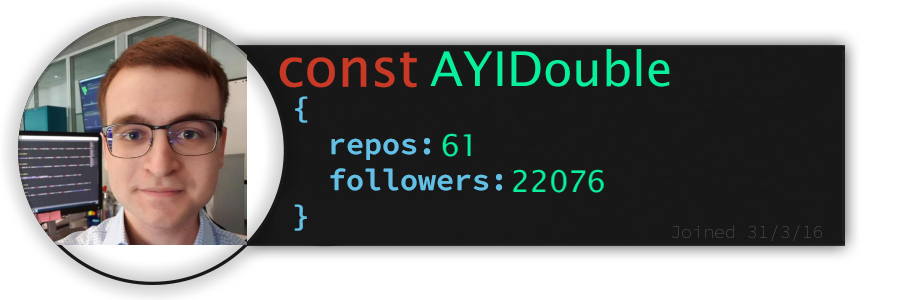
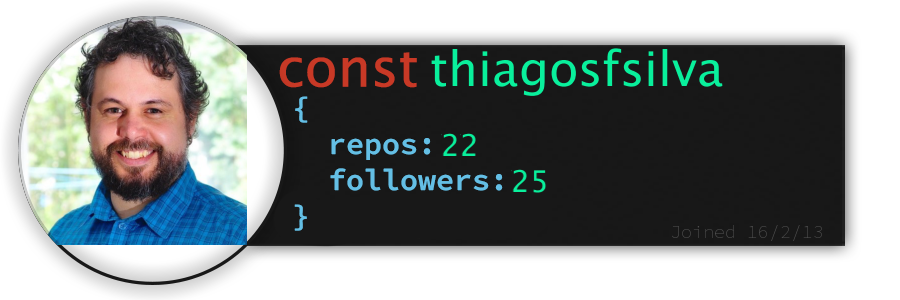
silly fixes

diff --git a/src/replacers/recentworks.js b/src/replacers/recentworks.js
@@ -7,7 +7,7 @@ module.exports = async function (data) {
   const formatJson = (elem) =>
     `<a href="${
       elem.html_url
-    }"><img height=250 width=350 src="https://github-readme-stats.vercel.app/api/pin/?username=${
+    }"><img height=250 width=350 src="https://github-readme-stats-server.vercel.app/api/pin/?username=${
       data.user
     }&repo=${encodeURIComponent(
       elem.name,

diff --git a/README.md b/README.md
@@ -38,62 +38,62 @@ I am Thomas Leon Highbaugh and this is my self-updating GitHub Profile ReadMe
 
 <h3>Skill Wall</h3>
 
-<p align="left"><img src="https://img.shields.io/badge/less-3c3c3c?logo=less&style=plastic&logoColor=F4F4F7"/>
-<img src="https://img.shields.io/badge/node.js-3c3c3c?logo=node.js&style=plastic&logoColor=F4F4F7"/>
-<img src="https://img.shields.io/badge/xhtml-69676c?logo=xhtml&style=plastic&logoColor=F4F4F7"/>
-<img src="https://img.shields.io/badge/vercel-69676c?logo=vercel&style=plastic&logoColor=F4F4F7"/>
-<img src="https://img.shields.io/badge/css-69676c?logo=css&style=plastic&logoColor=F4F4F7"/>
+<p align="left"><img src="https://img.shields.io/badge/vercel-69676c?logo=vercel&style=plastic&logoColor=F4F4F7"/>
+<img src="https://img.shields.io/badge/react-3c3c3c?logo=react&style=plastic&logoColor=F4F4F7"/>
+<img src="https://img.shields.io/badge/npm-3c3c3c?logo=npm&style=plastic&logoColor=F4F4F7"/>
+<img src="https://img.shields.io/badge/javascript-69676c?logo=javascript&style=plastic&logoColor=F4F4F7"/>
+<img src="https://img.shields.io/badge/less-3c3c3c?logo=less&style=plastic&logoColor=F4F4F7"/>
+<img src="https://img.shields.io/badge/lua-3c3c3c?logo=lua&style=plastic&logoColor=F4F4F7"/>
+<img src="https://img.shields.io/badge/gitlab-3c3c3c?logo=gitlab&style=plastic&logoColor=F4F4F7"/>
+<img src="https://img.shields.io/badge/firebase-69676c?logo=firebase&style=plastic&logoColor=F4F4F7"/>
+<img src="https://img.shields.io/badge/github%20actions-3c3c3c?logo=github%20actions&style=plastic&logoColor=F4F4F7"/>
 <img src="https://img.shields.io/badge/flask-3c3c3c?logo=flask&style=plastic&logoColor=F4F4F7"/>
 <img src="https://img.shields.io/badge/css3-3c3c3c?logo=css3&style=plastic&logoColor=F4F4F7"/>
-<img src="https://img.shields.io/badge/mongodb-69676c?logo=mongodb&style=plastic&logoColor=F4F4F7"/>
-<img src="https://img.shields.io/badge/html-69676c?logo=html&style=plastic&logoColor=F4F4F7"/>
-<img src="https://img.shields.io/badge/heroku-69676c?logo=heroku&style=plastic&logoColor=F4F4F7"/>
-<img src="https://img.shields.io/badge/graphql-3c3c3c?logo=graphql&style=plastic&logoColor=F4F4F7"/>
-<img src="https://img.shields.io/badge/bootstrap-3c3c3c?logo=bootstrap&style=plastic&logoColor=F4F4F7"/>
-<img src="https://img.shields.io/badge/gitlab-69676c?logo=gitlab&style=plastic&logoColor=F4F4F7"/>
-<img src="https://img.shields.io/badge/markdown-69676c?logo=markdown&style=plastic&logoColor=F4F4F7"/>
-<img src="https://img.shields.io/badge/inkscape-69676c?logo=inkscape&style=plastic&logoColor=F4F4F7"/>
-<img src="https://img.shields.io/badge/ant_design-3c3c3c?logo=ant+design&style=plastic&logoColor=F4F4F7"/>
-<img src="https://img.shields.io/badge/styled%20components-3c3c3c?logo=styled%20components&style=plastic&logoColor=F4F4F7"/>
-<img src="https://img.shields.io/badge/tsx-69676c?logo=react&style=plastic&logoColor=F4F4F7"/>
-<img src="https://img.shields.io/badge/github-69676c?logo=github&style=plastic&logoColor=F4F4F7"/>
-<img src="https://img.shields.io/badge/chakra-69676c?logo=chakraui&style=plastic&logoColor=F4F4F7"/>
-<img src="https://img.shields.io/badge/typescript-3c3c3c?logo=typescript&style=plastic&logoColor=F4F4F7"/>
-<img src="https://img.shields.io/badge/xml-3c3c3c?logo=xml&style=plastic&logoColor=F4F4F7"/>
-<img src="https://img.shields.io/badge/html5-69676c?logo=html5&style=plastic&logoColor=F4F4F7"/>
-<img src="https://img.shields.io/badge/bash/zsh-3c3c3c?logo=gnu+bash&style=plastic&logoColor=F4F4F7"/>
-<img src="https://img.shields.io/badge/typescript-3c3c3c?logo=typescript&style=plastic&logoColor=F4F4F7"/>
-<img src="https://img.shields.io/badge/codeberg-69676c?logo=codeberg&style=plastic&logoColor=F4F4F7"/>
-<img src="https://img.shields.io/badge/javascript-3c3c3c?logo=javascript&style=plastic&logoColor=F4F4F7"/>
-<img src="https://img.shields.io/badge/json-3c3c3c?logo=json&style=plastic&logoColor=F4F4F7"/>
-<img src="https://img.shields.io/badge/photoshop-69676c?logo=adobe+photoshop&style=plastic&logoColor=F4F4F7"/>
-<img src="https://img.shields.io/badge/jquery-3c3c3c?logo=jquery&style=plastic&logoColor=F4F4F7"/>
-<img src="https://img.shields.io/badge/jest-3c3c3c?logo=jest&style=plastic&logoColor=F4F4F7"/>
-<img src="https://img.shields.io/badge/fastapi-3c3c3c?logo=fastapi&style=plastic&logoColor=F4F4F7"/>
-<img src="https://img.shields.io/badge/nixos-3c3c3c?logo=nixos&style=plastic&logoColor=F4F4F7"/>
-<img src="https://img.shields.io/badge/linux-3c3c3c?logo=linux&style=plastic&logoColor=F4F4F7"/>
-<img src="https://img.shields.io/badge/git-3c3c3c?logo=git&style=plastic&logoColor=F4F4F7"/>
-<img src="https://img.shields.io/badge/sass-69676c?logo=sass&style=plastic&logoColor=F4F4F7"/>
-<img src="https://img.shields.io/badge/lua-69676c?logo=lua&style=plastic&logoColor=F4F4F7"/>
-<img src="https://img.shields.io/badge/firebase-3c3c3c?logo=firebase&style=plastic&logoColor=F4F4F7"/>
-<img src="https://img.shields.io/badge/mern%20stack-3c3c3c?logo=mern%20stack&style=plastic&logoColor=F4F4F7"/>
 <img src="https://img.shields.io/badge/tailwindcss-3c3c3c?logo=tailwindcss&style=plastic&logoColor=F4F4F7"/>
-<img src="https://img.shields.io/badge/github%20pages-69676c?logo=github&style=plastic&logoColor=F4F4F7"/>
-<img src="https://img.shields.io/badge/svg-3c3c3c?logo=svg&style=plastic&logoColor=F4F4F7"/>
-<img src="https://img.shields.io/badge/npm-3c3c3c?logo=npm&style=plastic&logoColor=F4F4F7"/>
-<img src="https://img.shields.io/badge/react-3c3c3c?logo=react&style=plastic&logoColor=F4F4F7"/>
-<img src="https://img.shields.io/badge/express.js-69676c?logo=express&style=plastic&logoColor=F4F4F7"/>
-<img src="https://img.shields.io/badge/python-3c3c3c?logo=python&style=plastic&logoColor=F4F4F7"/>
-<img src="https://img.shields.io/badge/storybook-69676c?logo=storybook&style=plastic&logoColor=F4F4F7"/>
-<img src="https://img.shields.io/badge/figma-69676c?logo=figma&style=plastic&logoColor=F4F4F7"/>
-<img src="https://img.shields.io/badge/gimp-3c3c3c?logo=gimp&style=plastic&logoColor=F4F4F7"/>
+<img src="https://img.shields.io/badge/mongodb-3c3c3c?logo=mongodb&style=plastic&logoColor=F4F4F7"/>
+<img src="https://img.shields.io/badge/inkscape-3c3c3c?logo=inkscape&style=plastic&logoColor=F4F4F7"/>
+<img src="https://img.shields.io/badge/typescript-3c3c3c?logo=typescript&style=plastic&logoColor=F4F4F7"/>
 <img src="https://img.shields.io/badge/neovim-3c3c3c?logo=neovim&style=plastic&logoColor=F4F4F7"/>
-<img src="https://img.shields.io/badge/sqlite-3c3c3c?logo=sqlite&style=plastic&logoColor=F4F4F7"/>
-<img src="https://img.shields.io/badge/netlify-69676c?logo=netlify&style=plastic&logoColor=F4F4F7"/>
-<img src="https://img.shields.io/badge/docker-3c3c3c?logo=docker&style=plastic&logoColor=F4F4F7"/>
+<img src="https://img.shields.io/badge/svg-69676c?logo=svg&style=plastic&logoColor=F4F4F7"/>
+<img src="https://img.shields.io/badge/jetbrains%20ides-3c3c3c?logo=jetbrains&style=plastic&logoColor=F4F4F7"/>
+<img src="https://img.shields.io/badge/graphql-69676c?logo=graphql&style=plastic&logoColor=F4F4F7"/>
+<img src="https://img.shields.io/badge/xml-69676c?logo=xml&style=plastic&logoColor=F4F4F7"/>
+<img src="https://img.shields.io/badge/github-3c3c3c?logo=github&style=plastic&logoColor=F4F4F7"/>
+<img src="https://img.shields.io/badge/linux-3c3c3c?logo=linux&style=plastic&logoColor=F4F4F7"/>
+<img src="https://img.shields.io/badge/html-3c3c3c?logo=html&style=plastic&logoColor=F4F4F7"/>
+<img src="https://img.shields.io/badge/bootstrap-69676c?logo=bootstrap&style=plastic&logoColor=F4F4F7"/>
+<img src="https://img.shields.io/badge/storybook-3c3c3c?logo=storybook&style=plastic&logoColor=F4F4F7"/>
+<img src="https://img.shields.io/badge/fastapi-3c3c3c?logo=fastapi&style=plastic&logoColor=F4F4F7"/>
+<img src="https://img.shields.io/badge/jquery-3c3c3c?logo=jquery&style=plastic&logoColor=F4F4F7"/>
+<img src="https://img.shields.io/badge/netlify-3c3c3c?logo=netlify&style=plastic&logoColor=F4F4F7"/>
+<img src="https://img.shields.io/badge/bash/zsh-3c3c3c?logo=gnu+bash&style=plastic&logoColor=F4F4F7"/>
+<img src="https://img.shields.io/badge/css-69676c?logo=css&style=plastic&logoColor=F4F4F7"/>
+<img src="https://img.shields.io/badge/json-3c3c3c?logo=json&style=plastic&logoColor=F4F4F7"/>
+<img src="https://img.shields.io/badge/chakra-69676c?logo=chakraui&style=plastic&logoColor=F4F4F7"/>
+<img src="https://img.shields.io/badge/nixos-3c3c3c?logo=nixos&style=plastic&logoColor=F4F4F7"/>
+<img src="https://img.shields.io/badge/github%20pages-69676c?logo=github&style=plastic&logoColor=F4F4F7"/>
+<img src="https://img.shields.io/badge/sqlite-69676c?logo=sqlite&style=plastic&logoColor=F4F4F7"/>
+<img src="https://img.shields.io/badge/figma-69676c?logo=figma&style=plastic&logoColor=F4F4F7"/>
+<img src="https://img.shields.io/badge/express.js-3c3c3c?logo=express&style=plastic&logoColor=F4F4F7"/>
 <img src="https://img.shields.io/badge/visual%20studio%20code-69676c?logo=visual%20studio%20code&style=plastic&logoColor=F4F4F7"/>
-<img src="https://img.shields.io/badge/jetbrains%20ides-69676c?logo=jetbrains&style=plastic&logoColor=F4F4F7"/>
-<img src="https://img.shields.io/badge/github%20actions-3c3c3c?logo=github%20actions&style=plastic&logoColor=F4F4F7"/></p>
+<img src="https://img.shields.io/badge/xhtml-69676c?logo=xhtml&style=plastic&logoColor=F4F4F7"/>
+<img src="https://img.shields.io/badge/html5-3c3c3c?logo=html5&style=plastic&logoColor=F4F4F7"/>
+<img src="https://img.shields.io/badge/photoshop-3c3c3c?logo=adobe+photoshop&style=plastic&logoColor=F4F4F7"/>
+<img src="https://img.shields.io/badge/markdown-69676c?logo=markdown&style=plastic&logoColor=F4F4F7"/>
+<img src="https://img.shields.io/badge/typescript-3c3c3c?logo=typescript&style=plastic&logoColor=F4F4F7"/>
+<img src="https://img.shields.io/badge/node.js-3c3c3c?logo=node.js&style=plastic&logoColor=F4F4F7"/>
+<img src="https://img.shields.io/badge/tsx-69676c?logo=react&style=plastic&logoColor=F4F4F7"/>
+<img src="https://img.shields.io/badge/jest-3c3c3c?logo=jest&style=plastic&logoColor=F4F4F7"/>
+<img src="https://img.shields.io/badge/styled%20components-3c3c3c?logo=styled%20components&style=plastic&logoColor=F4F4F7"/>
+<img src="https://img.shields.io/badge/mern%20stack-3c3c3c?logo=mern%20stack&style=plastic&logoColor=F4F4F7"/>
+<img src="https://img.shields.io/badge/ant_design-3c3c3c?logo=ant+design&style=plastic&logoColor=F4F4F7"/>
+<img src="https://img.shields.io/badge/docker-3c3c3c?logo=docker&style=plastic&logoColor=F4F4F7"/>
+<img src="https://img.shields.io/badge/codeberg-69676c?logo=codeberg&style=plastic&logoColor=F4F4F7"/>
+<img src="https://img.shields.io/badge/python-69676c?logo=python&style=plastic&logoColor=F4F4F7"/>
+<img src="https://img.shields.io/badge/git-3c3c3c?logo=git&style=plastic&logoColor=F4F4F7"/>
+<img src="https://img.shields.io/badge/gimp-69676c?logo=gimp&style=plastic&logoColor=F4F4F7"/>
+<img src="https://img.shields.io/badge/heroku-69676c?logo=heroku&style=plastic&logoColor=F4F4F7"/>
+<img src="https://img.shields.io/badge/sass-3c3c3c?logo=sass&style=plastic&logoColor=F4F4F7"/></p>
 
 </details>
 <details><summary>Automatically Updated Statistics About My Work</summary>
@@ -110,12 +110,12 @@ I am Thomas Leon Highbaugh and this is my self-updating GitHub Profile ReadMe
 
 <h3>Recent Projects</h3>
 
-<a href="https://github.com/Thomashighbaugh/github-readme-stats-server"><img height=250 width=350 src="https://github-readme-stats.vercel.app/api/pin/?username=Thomashighbaugh&repo=github-readme-stats-server&title_color=FE3B7B&text_color=F2F2F2&bg_color=2c2c2c&border_color=525053&icon_color=F2F2F2&border_radius=15"/></a>
-<a href="https://github.com/Thomashighbaugh/Awesome-AwesomeWM-Modules-Widgets-And-Libraries"><img height=250 width=350 src="https://github-readme-stats.vercel.app/api/pin/?username=Thomashighbaugh&repo=Awesome-AwesomeWM-Modules-Widgets-And-Libraries&title_color=FE3B7B&text_color=F2F2F2&bg_color=2c2c2c&border_color=525053&icon_color=F2F2F2&border_radius=15"/></a>
-<a href="https://github.com/Thomashighbaugh/manjaro-workstation-playbook"><img height=250 width=350 src="https://github-readme-stats.vercel.app/api/pin/?username=Thomashighbaugh&repo=manjaro-workstation-playbook&title_color=FE3B7B&text_color=F2F2F2&bg_color=2c2c2c&border_color=525053&icon_color=F2F2F2&border_radius=15"/></a>
-<a href="https://github.com/Thomashighbaugh/gpt_scripts"><img height=250 width=350 src="https://github-readme-stats.vercel.app/api/pin/?username=Thomashighbaugh&repo=gpt_scripts&title_color=FE3B7B&text_color=F2F2F2&bg_color=2c2c2c&border_color=525053&icon_color=F2F2F2&border_radius=15"/></a>
-<a href="https://github.com/Thomashighbaugh/firefox"><img height=250 width=350 src="https://github-readme-stats.vercel.app/api/pin/?username=Thomashighbaugh&repo=firefox&title_color=FE3B7B&text_color=F2F2F2&bg_color=2c2c2c&border_color=525053&icon_color=F2F2F2&border_radius=15"/></a>
-<a href="https://github.com/Thomashighbaugh/gpt_notebook"><img height=250 width=350 src="https://github-readme-stats.vercel.app/api/pin/?username=Thomashighbaugh&repo=gpt_notebook&title_color=FE3B7B&text_color=F2F2F2&bg_color=2c2c2c&border_color=525053&icon_color=F2F2F2&border_radius=15"/></a>
+<a href="https://github.com/Thomashighbaugh/Awesome-AwesomeWM-Modules-Widgets-And-Libraries"><img height=250 width=350 src="https://github-readme-stats-server.vercel.app/api/pin/?username=Thomashighbaugh&repo=Awesome-AwesomeWM-Modules-Widgets-And-Libraries&title_color=FE3B7B&text_color=F2F2F2&bg_color=2c2c2c&border_color=525053&icon_color=F2F2F2&border_radius=15"/></a>
+<a href="https://github.com/Thomashighbaugh/github-readme-stats-server"><img height=250 width=350 src="https://github-readme-stats-server.vercel.app/api/pin/?username=Thomashighbaugh&repo=github-readme-stats-server&title_color=FE3B7B&text_color=F2F2F2&bg_color=2c2c2c&border_color=525053&icon_color=F2F2F2&border_radius=15"/></a>
+<a href="https://github.com/Thomashighbaugh/manjaro-workstation-playbook"><img height=250 width=350 src="https://github-readme-stats-server.vercel.app/api/pin/?username=Thomashighbaugh&repo=manjaro-workstation-playbook&title_color=FE3B7B&text_color=F2F2F2&bg_color=2c2c2c&border_color=525053&icon_color=F2F2F2&border_radius=15"/></a>
+<a href="https://github.com/Thomashighbaugh/gpt_scripts"><img height=250 width=350 src="https://github-readme-stats-server.vercel.app/api/pin/?username=Thomashighbaugh&repo=gpt_scripts&title_color=FE3B7B&text_color=F2F2F2&bg_color=2c2c2c&border_color=525053&icon_color=F2F2F2&border_radius=15"/></a>
+<a href="https://github.com/Thomashighbaugh/firefox"><img height=250 width=350 src="https://github-readme-stats-server.vercel.app/api/pin/?username=Thomashighbaugh&repo=firefox&title_color=FE3B7B&text_color=F2F2F2&bg_color=2c2c2c&border_color=525053&icon_color=F2F2F2&border_radius=15"/></a>
+<a href="https://github.com/Thomashighbaugh/gpt_notebook"><img height=250 width=350 src="https://github-readme-stats-server.vercel.app/api/pin/?username=Thomashighbaugh&repo=gpt_notebook&title_color=FE3B7B&text_color=F2F2F2&bg_color=2c2c2c&border_color=525053&icon_color=F2F2F2&border_radius=15"/></a>
 
 <hr/>
 
@@ -123,7 +123,7 @@ I am Thomas Leon Highbaugh and this is my self-updating GitHub Profile ReadMe
 
 <em><small>Showcase of One of the Awesome Individuals That Follow My Work, Updated Daily!</small></em>
 
-<a href="https://github.com/AYIDouble" alt="Alpay Yildirim"><img style="height:150px;" src=./src/resources/images/randomFollower.png alt="Follower of the day"/></a>
+<a href="https://github.com/thiagosfsilva" alt="Thiago Sanna Freire Silva"><img style="height:150px;" src=./src/resources/images/randomFollower.png alt="Follower of the day"/></a>
 
 
 </details>
